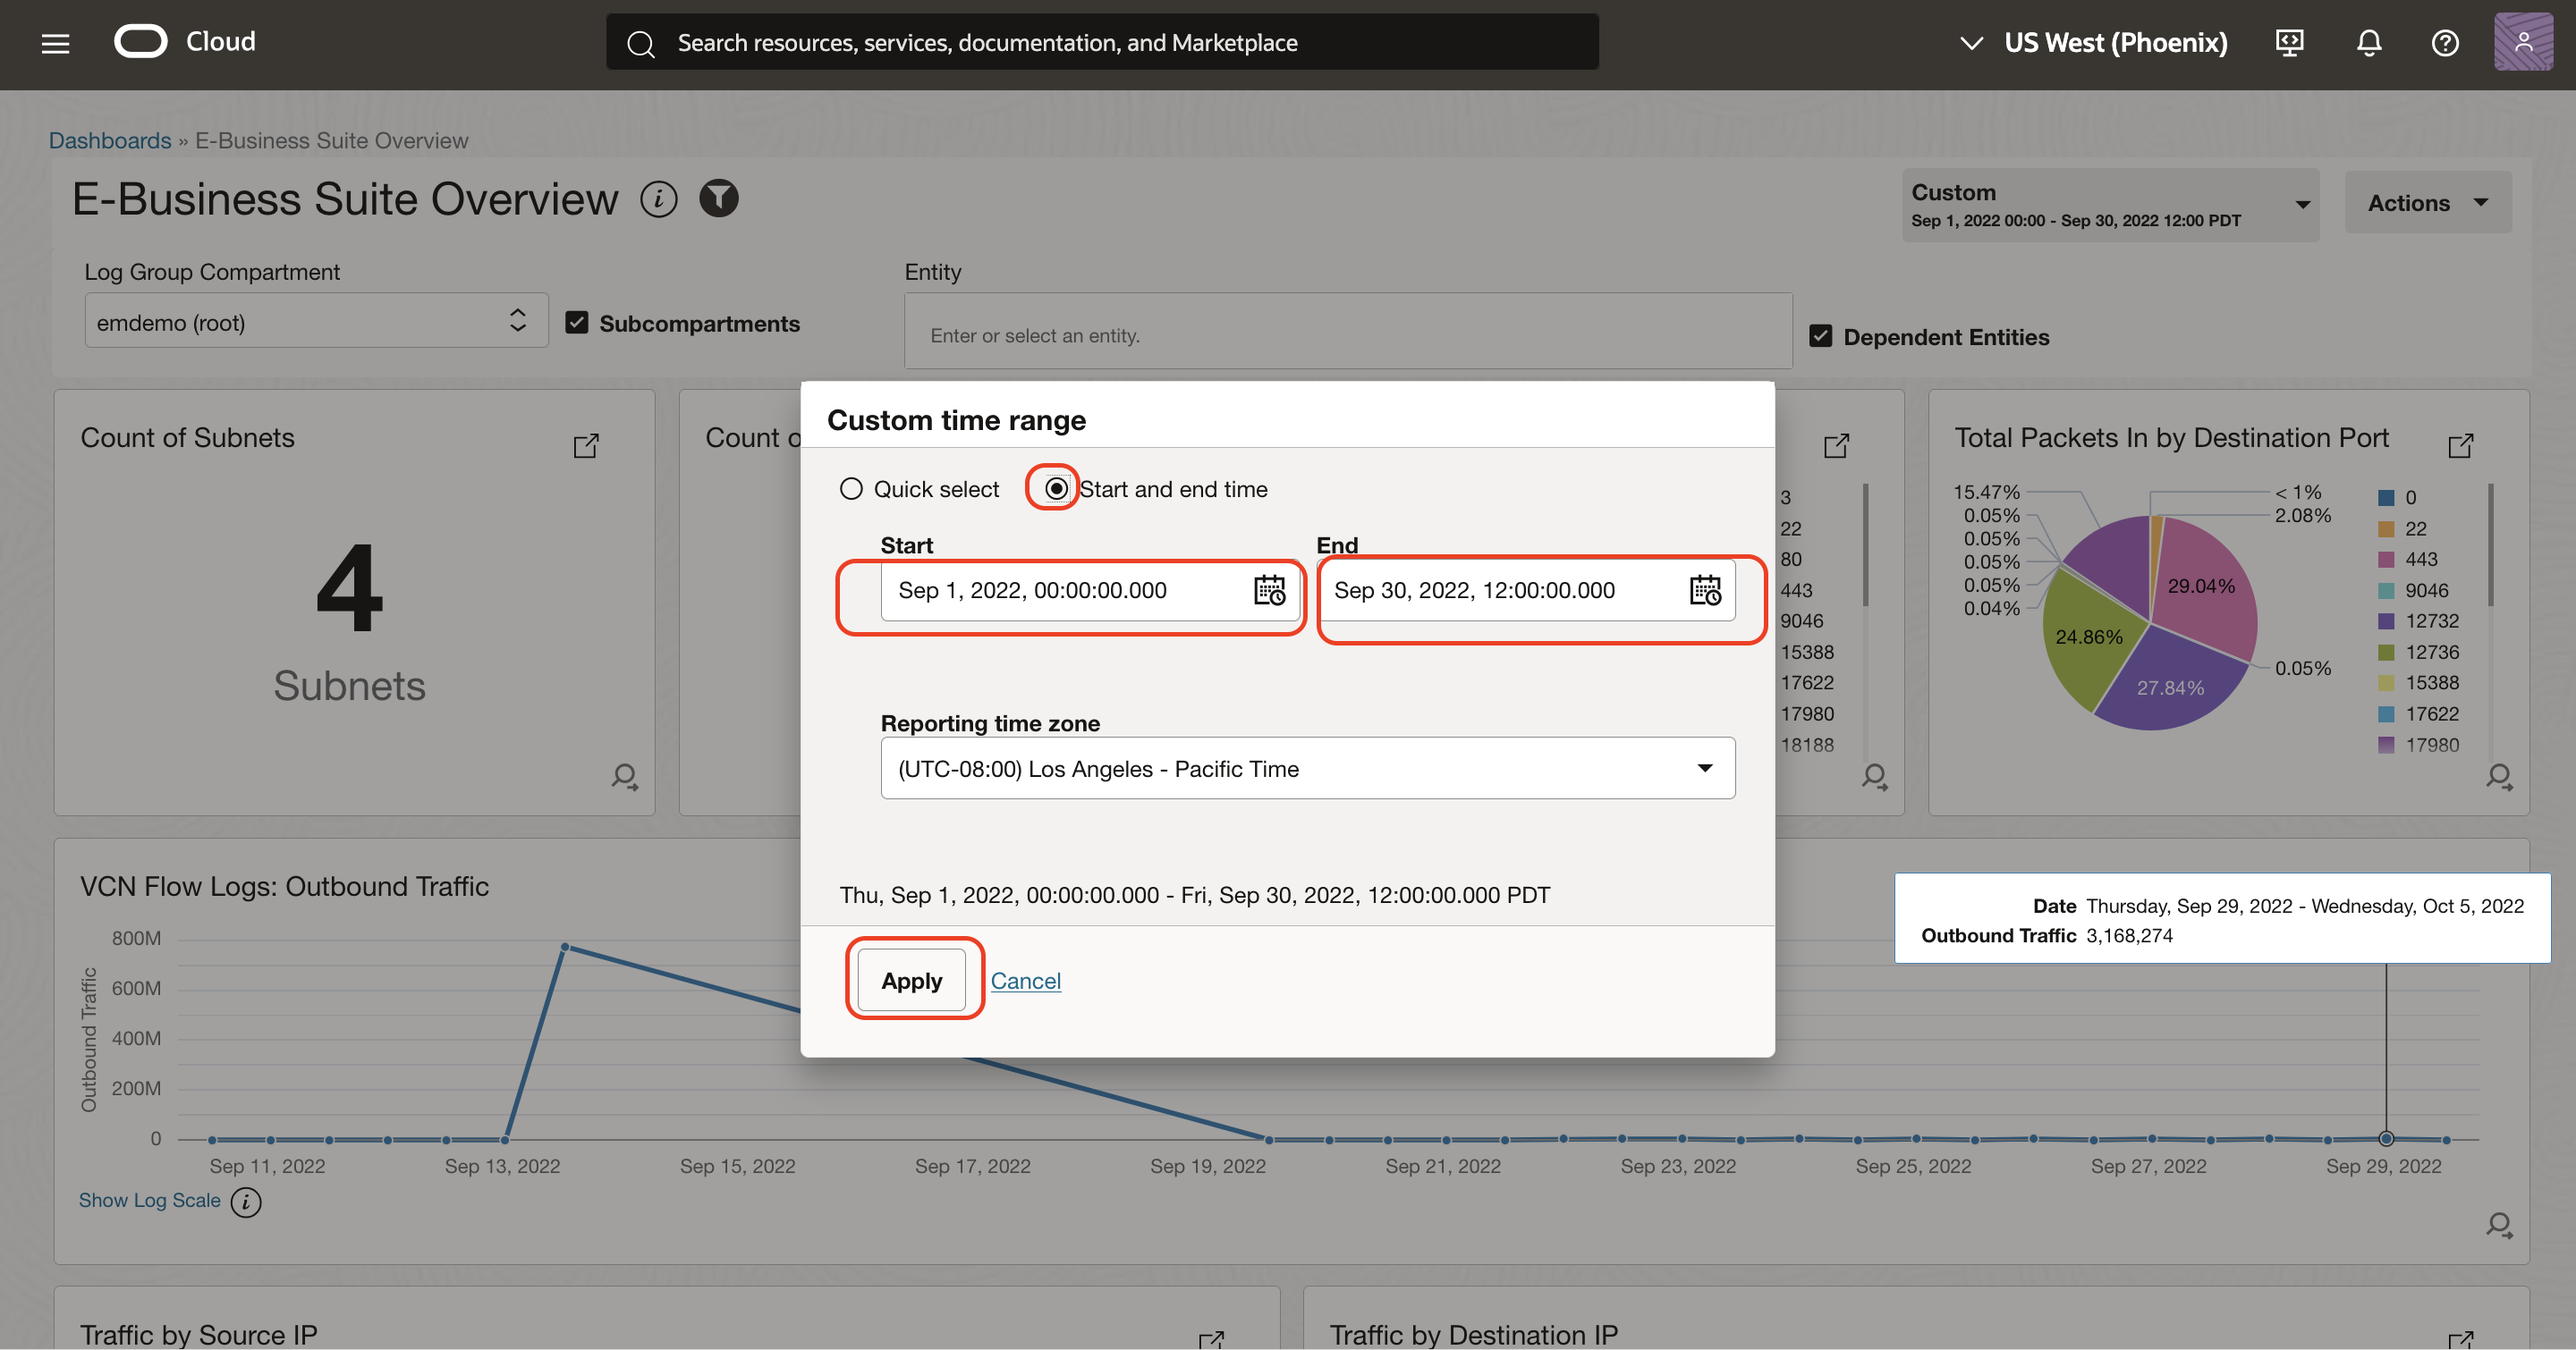
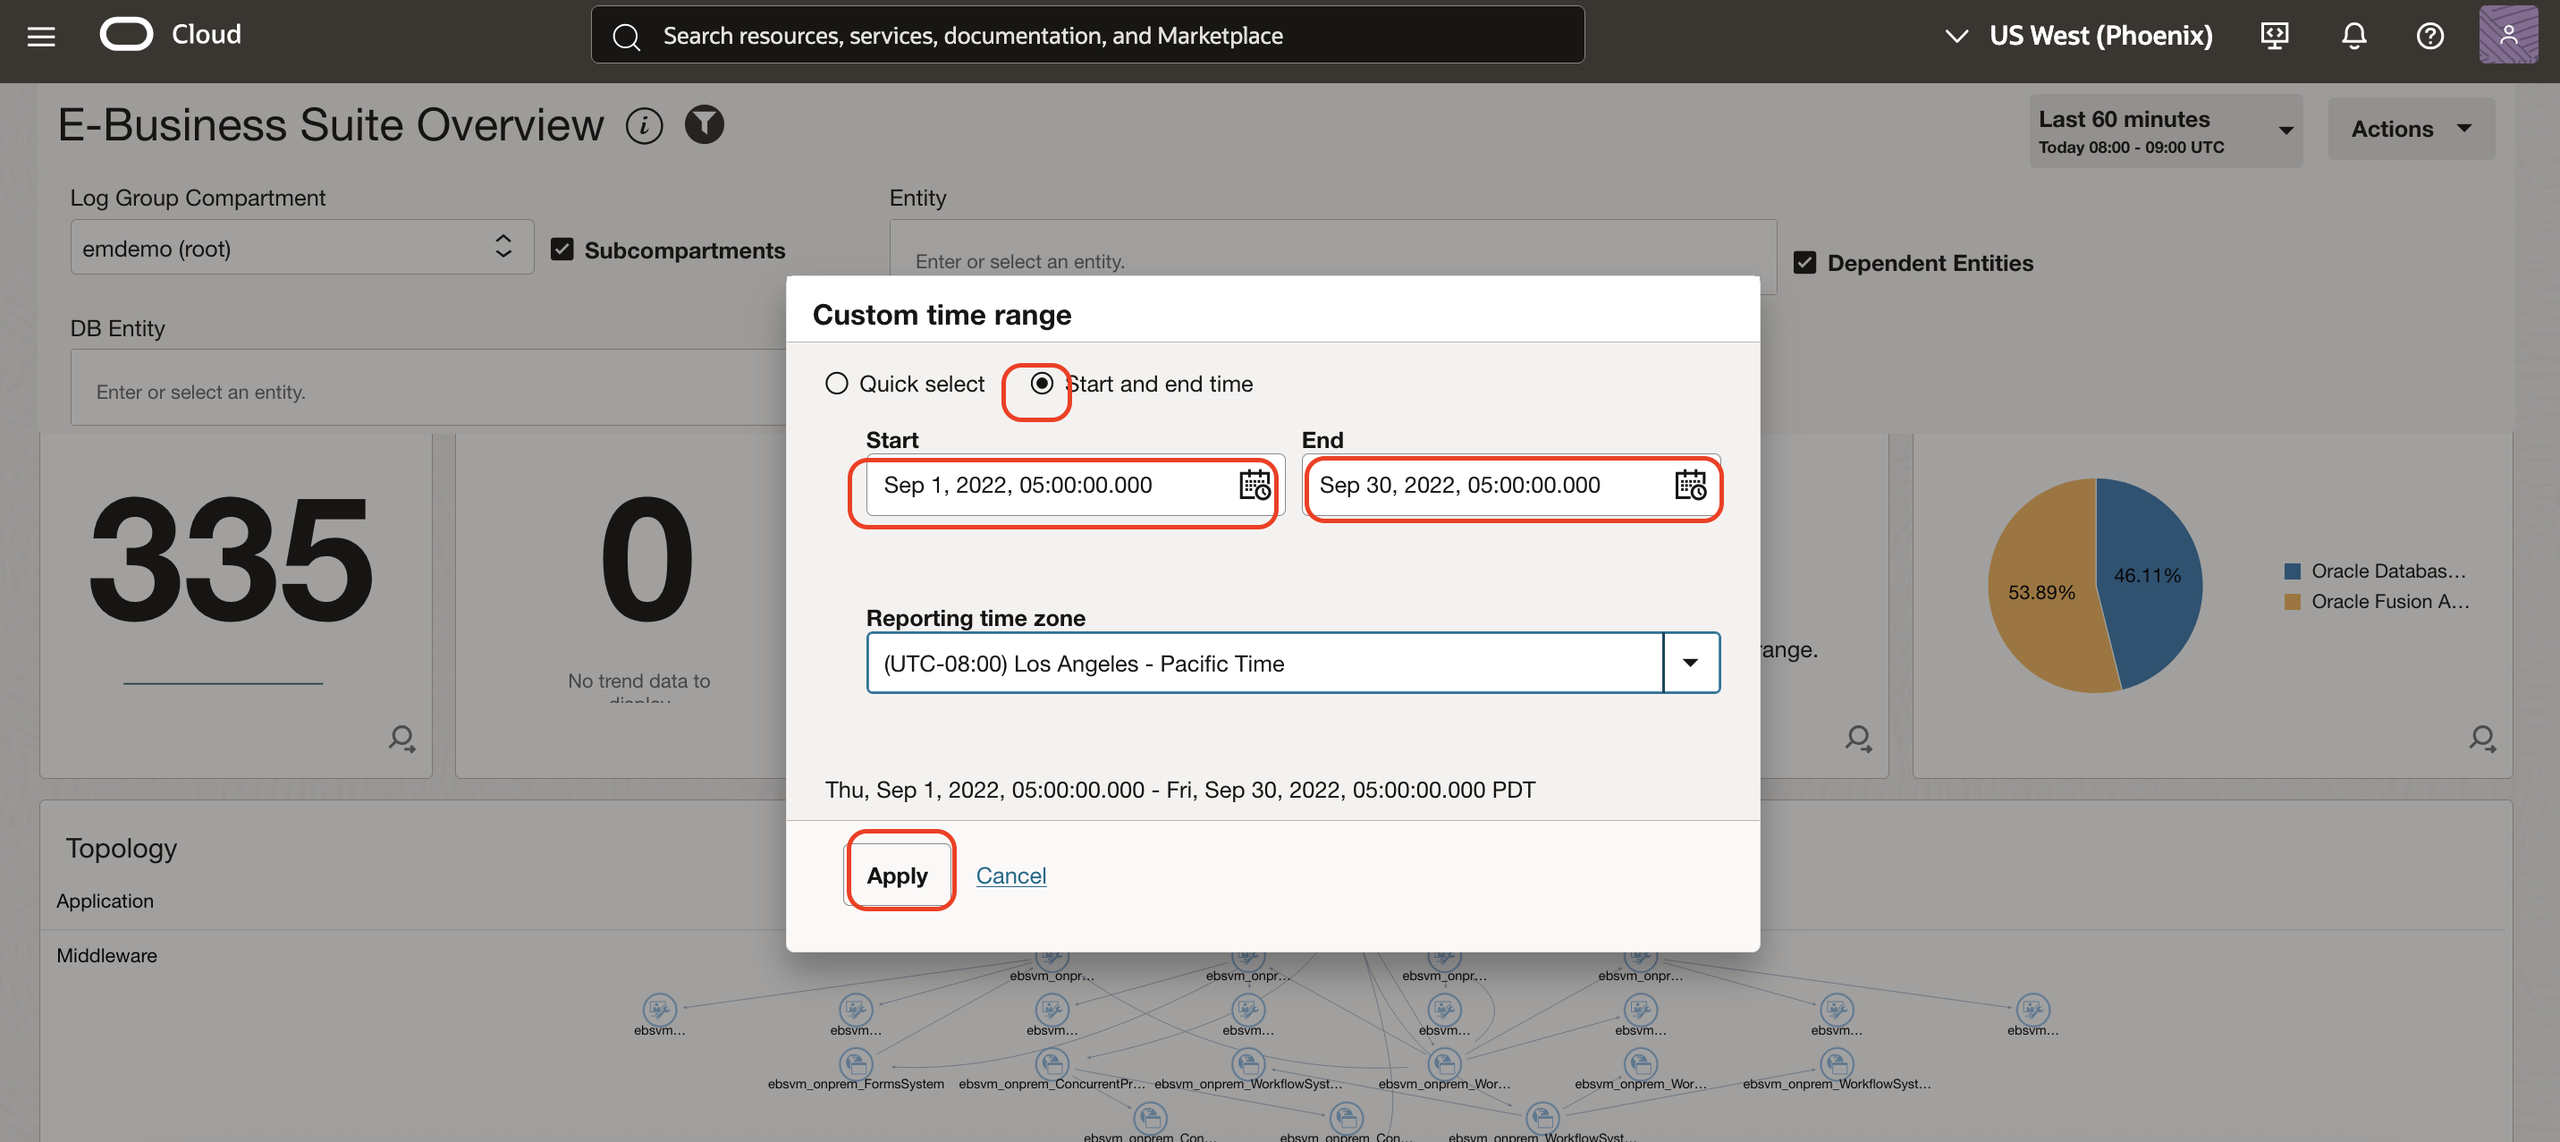
9522 Monitor and Troubleshoot E-Business Suite Performance (#382)
* Implementing the feedback received from the dry run

Implementing the feedback received from the dry run

* updated monitoring dashboards

updated monitoring dashboards

* update the ebs lab

update the ebs lab

diff --git a/logging-analytics/ebs-monitoring/log-monitoring-dashboards/monitoring-dashboards.md b/logging-analytics/ebs-monitoring/log-monitoring-dashboards/monitoring-dashboards.md
@@ -19,12 +19,13 @@ In this lab, you will:
 1. Select 'Dashboards' from the top navigation dropdown in Log explorer to view the 'Dashboards'
    ![](images/la-nav-ebs-dashboard.png "Ui Desc")
 
-2. Select Compartment as 'ebs-lab-9522' in the 'Dashboards Scope' section on the left.
+2. Select Compartment as  **AIW25\_Log\_Analytics** in the 'Dashboards Scope' section on the left.
 
    ![](images/la-dash-ebs-compartment.png "Ui Desc")
 
-3. Click on "E-Business Suite Overview" dashboard to see the monitoring dashboard for E-Business Suite and Virtual Cloud Network Flow Logs analysis.
-   ![](images/la-ebs-dashboard.png "Ui Desc")
+3. Click on **E-Business Suite Overview** dashboard to see the monitoring dashboard for E-Business Suite.
+   ![](images/la-dash-ebs.png "ebs dashboard")
+
 
 4. Click **Custom** under **Time range** pickerSet, then Click on "Start and End Time".
    ![](images/la-dash-custom-time.png "Ui Desc")
@@ -32,24 +33,45 @@ In this lab, you will:
 5. Select START time as **Sep 1, 2022 12:00:00 AM**, END Time as **Sep 30, 2022 12:00:00 PM** and Click Apply.
    ![](images/la-custom-time-selection.png "Ui Desc")
 
-6. The below widget shows Virtual Cloud Network Flow Logs analysis like 'Max Packets In By Source Port' , 'Total Packets In by Destination Port'
-   ![](images/la-dash-vcn-packets.png "Ui Desc")
 
-7. The below widgets shows 'VCN Flow Logs Outbound Traffic', 'Traffic By Source IP' and 'Traffic By Destination IP'
-   ![](images/la-dash-vcn-traffic.png "Ui Desc")
+6.  Click on **Open/Close filter panel** to close the filter panel.
+      ![](images/close-filter-panel.png "close filter")
 
-8. Scroll down to 'Functional Issues Overview' to view EBS Functional issues
-   ![](images/la-dash-ebs-functional-overview.png "Ui Desc")
+ 
+7. A dashboard with multiple widgets is displayed.
+ 
+8. High level view of the E-business application with Active Business Checks, Failed Business Checks and Monitored Components can be seen within below widgets.
+   ![](images/ebs1.png "ebs1")
 
-9. Click on the punch-out icon of the widget 'Functional Issues Overview' to analyze further.
+ 
+9. Topological view showing the interconnected structure of application, middleware, database and compute components can be seen using below widget.
+   ![](images/ebs2.png "ebs2")
 
-   ![](images/la-dash-ebs-functional-issues.png "UIdescription")
+10. Geo map showing the locations from which the applications are accessed, helping to identify hotspots.
+   ![](images/ebs3.png "ebs3")
 
-10. Next, you can analyze further based EBS Functional Issues.
+11. Charts showing distribution of various errors in the application.
+   ![](images/ebs4.png "ebs4")
 
-    ![](images/la-ebs-functional-issue1.png "UIdescription")
+12. A word cloud of various problem labels in each of the entity.
+   ![](images/ebs5.png "ebs5")
+
+13. Details of the functional issues in the application including product areas, business impact, SR etc.
+   ![](images/ebs6.png "ebs6")
+
+14. Analysis of requests and monitored systems.
+   ![](images/ebs7.png "ebs7")
+
+
+
+
+
+
+
+
+
+         
    
-
 ## Acknowledgements
 * **Author** - Gurusamy Poosamalai, Log Analytics Development Team, Supriya Joshi, Log Analytics Development Team
 * **Contributors** -  Kumar Varun, Log Analytics Product Management, Jolly Kundu - Log Analytics Development Team
